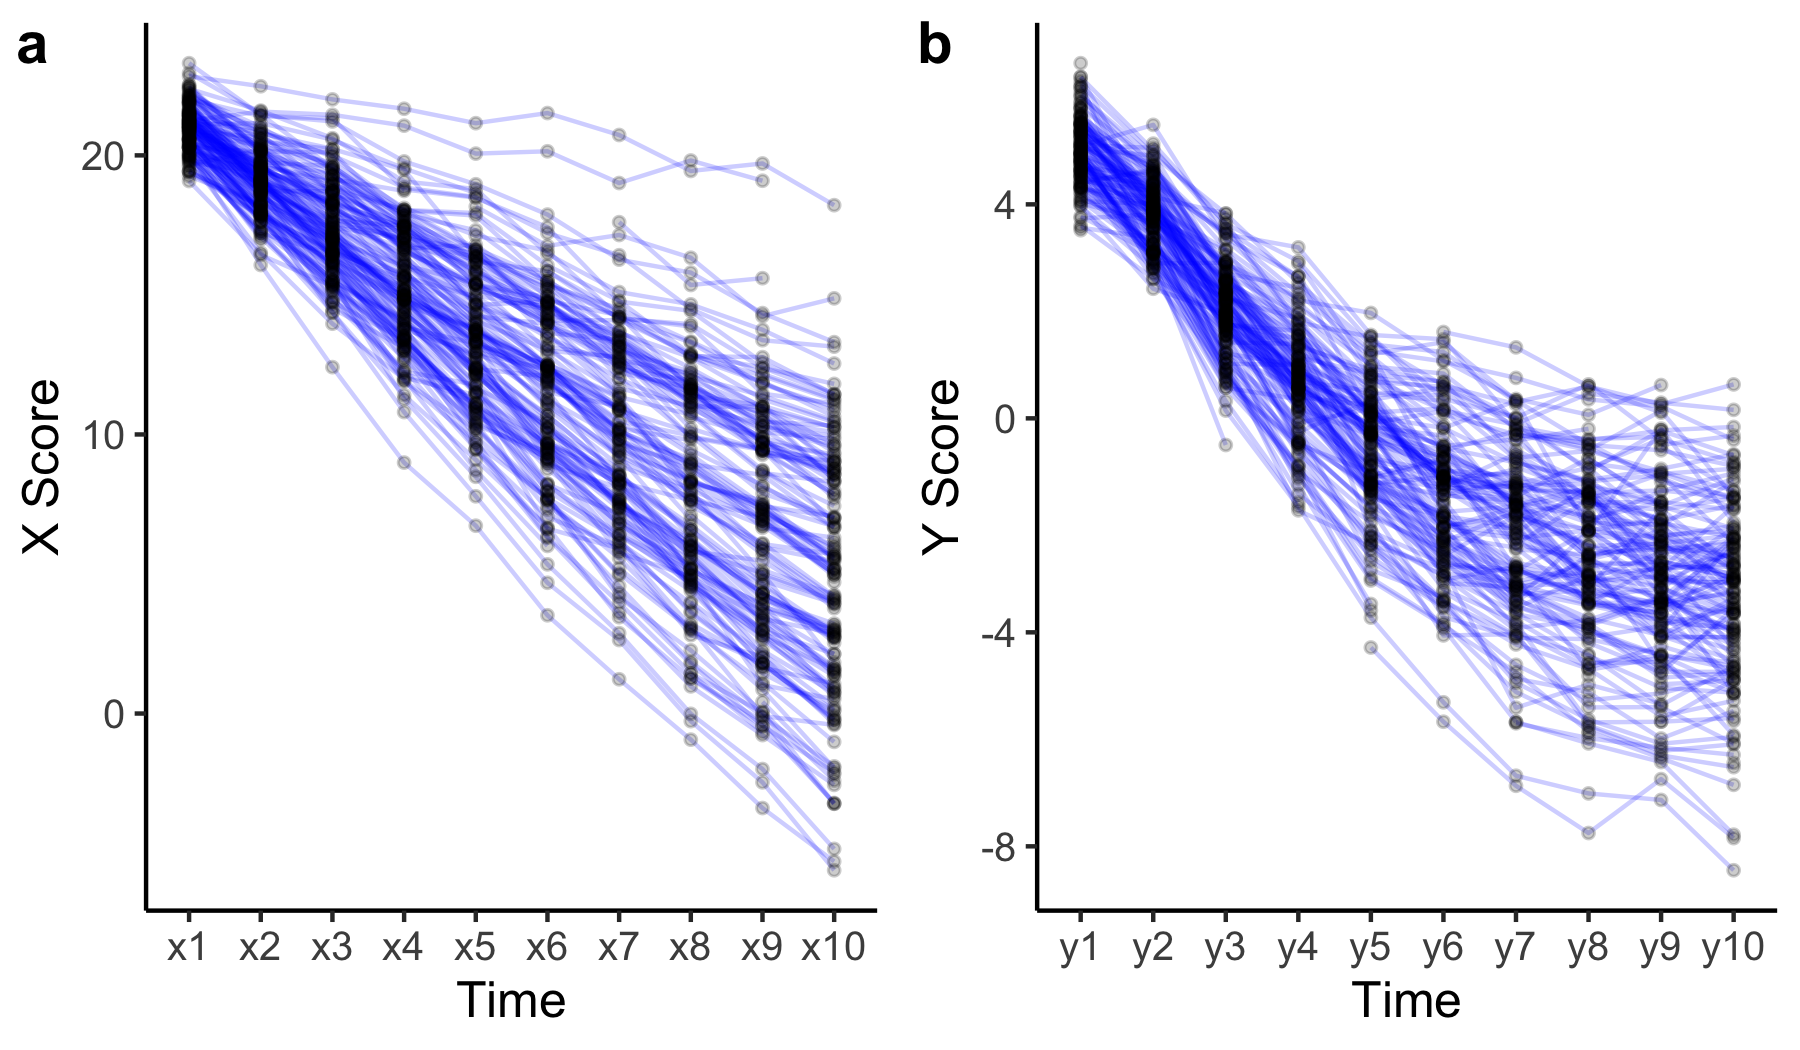
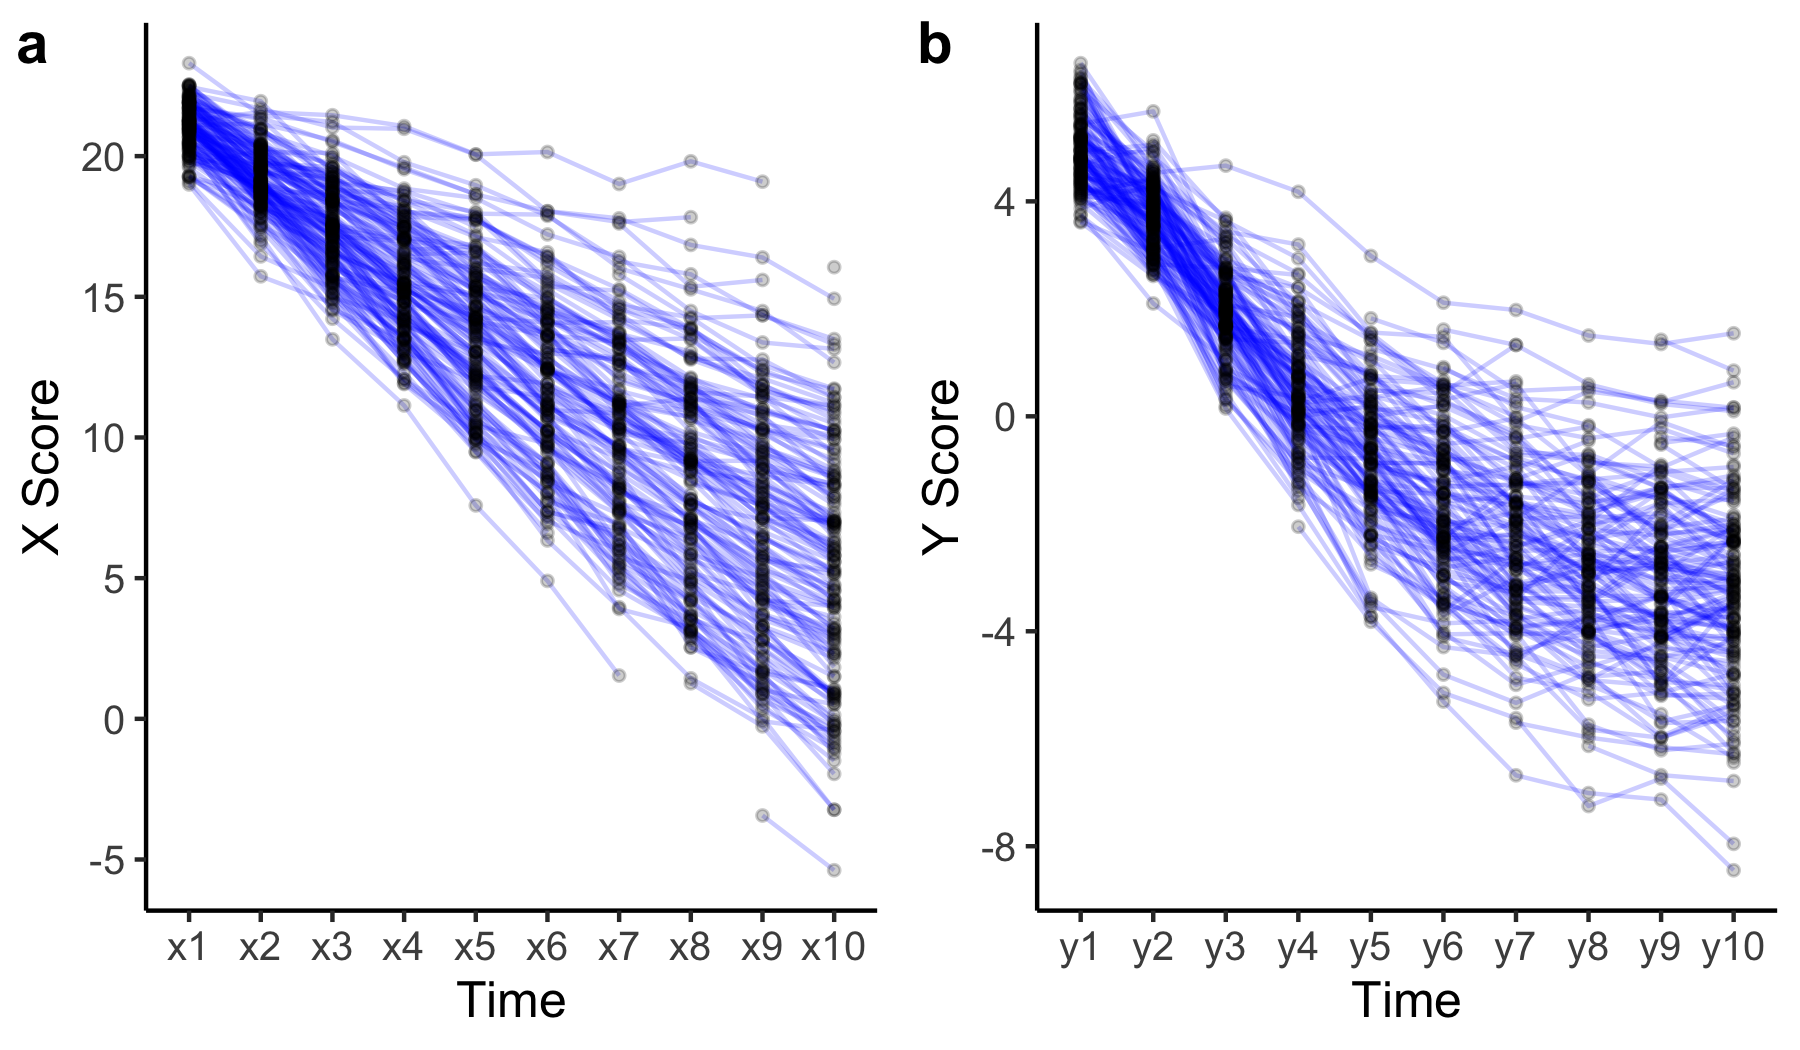
UPDATE pkgdown, something didnt work before

diff --git a/docs/index.html b/docs/index.html
@@ -163,10 +163,10 @@
 <a class="sourceLine" id="cb3-20" data-line-number="20">ggpubr<span class="op">::</span><span class="kw"><a href="https://rdrr.io/pkg/ggpubr/man/ggarrange.html">ggarrange</a></span>(plot_x,</a>
 <a class="sourceLine" id="cb3-21" data-line-number="21">                  plot_y,</a>
 <a class="sourceLine" id="cb3-22" data-line-number="22">                  <span class="dt">labels =</span> <span class="kw"><a href="https://rdrr.io/r/base/c.html">c</a></span>(<span class="st">"a"</span>, <span class="st">"b"</span>))</a>
-<a class="sourceLine" id="cb3-23" data-line-number="23"><span class="co">#&gt; Warning: Removed 13 rows containing missing values (geom_path).</span></a>
+<a class="sourceLine" id="cb3-23" data-line-number="23"><span class="co">#&gt; Warning: Removed 10 rows containing missing values (geom_path).</span></a>
 <a class="sourceLine" id="cb3-24" data-line-number="24"><span class="co">#&gt; Warning: Removed 75 rows containing missing values (geom_point).</span></a>
-<a class="sourceLine" id="cb3-25" data-line-number="25"><span class="co">#&gt; Warning: Removed 29 rows containing missing values (geom_path).</span></a>
-<a class="sourceLine" id="cb3-26" data-line-number="26"><span class="co">#&gt; Warning: Removed 146 rows containing missing values (geom_point).</span></a></code></pre></div>
+<a class="sourceLine" id="cb3-25" data-line-number="25"><span class="co">#&gt; Warning: Removed 25 rows containing missing values (geom_path).</span></a>
+<a class="sourceLine" id="cb3-26" data-line-number="26"><span class="co">#&gt; Warning: Removed 142 rows containing missing values (geom_point).</span></a></code></pre></div>
 <p><img src="reference/figures/README-unnamed-chunk-3-1.png" width="100%"></p>
 </div>
 <div id="fit-lcs-models" class="section level3">
@@ -892,16 +892,16 @@ above.</summary><p>
 <a class="sourceLine" id="cb11-18" data-line-number="18"><span class="co">#&gt; # A tibble: 1,000 x 6</span></a>
 <a class="sourceLine" id="cb11-19" data-line-number="19"><span class="co">#&gt;       id    x1    x2    x3    x4    x5</span></a>
 <a class="sourceLine" id="cb11-20" data-line-number="20"><span class="co">#&gt;    &lt;int&gt; &lt;dbl&gt; &lt;dbl&gt; &lt;dbl&gt; &lt;dbl&gt; &lt;dbl&gt;</span></a>
-<a class="sourceLine" id="cb11-21" data-line-number="21"><span class="co">#&gt;  1     1  20.9  20.4  21.6  NA   19.3 </span></a>
-<a class="sourceLine" id="cb11-22" data-line-number="22"><span class="co">#&gt;  2     2  21.2  21.7  23.1  24.5 25.4 </span></a>
-<a class="sourceLine" id="cb11-23" data-line-number="23"><span class="co">#&gt;  3     3  21.0  22.5  23.6  25.1 27.7 </span></a>
-<a class="sourceLine" id="cb11-24" data-line-number="24"><span class="co">#&gt;  4     4  NA    21.6  22.2  NA   22.9 </span></a>
-<a class="sourceLine" id="cb11-25" data-line-number="25"><span class="co">#&gt;  5     5  NA    NA    NA    NA   15.1 </span></a>
-<a class="sourceLine" id="cb11-26" data-line-number="26"><span class="co">#&gt;  6     6  22.1  23.2  NA    25.4 NA   </span></a>
-<a class="sourceLine" id="cb11-27" data-line-number="27"><span class="co">#&gt;  7     7  NA    21.4  21.0  NA   22.7 </span></a>
-<a class="sourceLine" id="cb11-28" data-line-number="28"><span class="co">#&gt;  8     8  21.6  NA    21.6  21.7 21.6 </span></a>
-<a class="sourceLine" id="cb11-29" data-line-number="29"><span class="co">#&gt;  9     9  NA    16.8  NA    11.0  8.11</span></a>
-<a class="sourceLine" id="cb11-30" data-line-number="30"><span class="co">#&gt; 10    10  21.0  NA    17.5  15.6 NA   </span></a>
+<a class="sourceLine" id="cb11-21" data-line-number="21"><span class="co">#&gt;  1     1  NA    NA    NA    25.7 28.2 </span></a>
+<a class="sourceLine" id="cb11-22" data-line-number="22"><span class="co">#&gt;  2     2  NA    NA    24.9  26.0 NA   </span></a>
+<a class="sourceLine" id="cb11-23" data-line-number="23"><span class="co">#&gt;  3     3  NA    20.8  20.6  21.8 21.6 </span></a>
+<a class="sourceLine" id="cb11-24" data-line-number="24"><span class="co">#&gt;  4     4  19.2  18.6  17.9  NA   15.8 </span></a>
+<a class="sourceLine" id="cb11-25" data-line-number="25"><span class="co">#&gt;  5     5  21.7  22.9  23.7  23.9 25.3 </span></a>
+<a class="sourceLine" id="cb11-26" data-line-number="26"><span class="co">#&gt;  6     6  NA    21.7  21.9  22.8 23.6 </span></a>
+<a class="sourceLine" id="cb11-27" data-line-number="27"><span class="co">#&gt;  7     7  21.2  NA    NA    20.1 20.6 </span></a>
+<a class="sourceLine" id="cb11-28" data-line-number="28"><span class="co">#&gt;  8     8  22.1  NA    20.2  17.7 16.3 </span></a>
+<a class="sourceLine" id="cb11-29" data-line-number="29"><span class="co">#&gt;  9     9  21.1  18.4  NA    NA    7.98</span></a>
+<a class="sourceLine" id="cb11-30" data-line-number="30"><span class="co">#&gt; 10    10  20.5  19.2  NA    14.6 12.3 </span></a>
 <a class="sourceLine" id="cb11-31" data-line-number="31"><span class="co">#&gt; # … with 990 more rows</span></a></code></pre></div>
 <p>It is also possible to return the lavaan syntax instead of simulating data for further manual specifications. The modified object could then be used to simulate data using <code><a href="https://rdrr.io/pkg/lavaan/man/simulateData.html">lavaan::simulateData()</a></code>.</p>
 <div class="sourceCode" id="cb12"><pre class="sourceCode r"><code class="sourceCode r"><a class="sourceLine" id="cb12-1" data-line-number="1"><span class="co"># Return lavaan syntax based on the following argument specifications</span></a>

diff --git a/README.md b/README.md
@@ -111,10 +111,10 @@ plot_y <- plot_trajectories(data = data_bi_lcsm,
 ggpubr::ggarrange(plot_x,
                   plot_y,
                   labels = c("a", "b"))
-#> Warning: Removed 13 rows containing missing values (geom_path).
+#> Warning: Removed 10 rows containing missing values (geom_path).
 #> Warning: Removed 75 rows containing missing values (geom_point).
-#> Warning: Removed 29 rows containing missing values (geom_path).
-#> Warning: Removed 146 rows containing missing values (geom_point).
+#> Warning: Removed 25 rows containing missing values (geom_path).
+#> Warning: Removed 142 rows containing missing values (geom_point).
 ```
 
 <img src="man/figures/README-unnamed-chunk-3-1.png" width="100%" />
@@ -665,16 +665,16 @@ sim_uni_lcsm(timepoints = 5,
 #> # A tibble: 1,000 x 6
 #>       id    x1    x2    x3    x4    x5
 #>    <int> <dbl> <dbl> <dbl> <dbl> <dbl>
-#>  1     1  20.9  20.4  21.6  NA   19.3 
-#>  2     2  21.2  21.7  23.1  24.5 25.4 
-#>  3     3  21.0  22.5  23.6  25.1 27.7 
-#>  4     4  NA    21.6  22.2  NA   22.9 
-#>  5     5  NA    NA    NA    NA   15.1 
-#>  6     6  22.1  23.2  NA    25.4 NA   
-#>  7     7  NA    21.4  21.0  NA   22.7 
-#>  8     8  21.6  NA    21.6  21.7 21.6 
-#>  9     9  NA    16.8  NA    11.0  8.11
-#> 10    10  21.0  NA    17.5  15.6 NA   
+#>  1     1  NA    NA    NA    25.7 28.2 
+#>  2     2  NA    NA    24.9  26.0 NA   
+#>  3     3  NA    20.8  20.6  21.8 21.6 
+#>  4     4  19.2  18.6  17.9  NA   15.8 
+#>  5     5  21.7  22.9  23.7  23.9 25.3 
+#>  6     6  NA    21.7  21.9  22.8 23.6 
+#>  7     7  21.2  NA    NA    20.1 20.6 
+#>  8     8  22.1  NA    20.2  17.7 16.3 
+#>  9     9  21.1  18.4  NA    NA    7.98
+#> 10    10  20.5  19.2  NA    14.6 12.3 
 #> # … with 990 more rows
 ```
 
